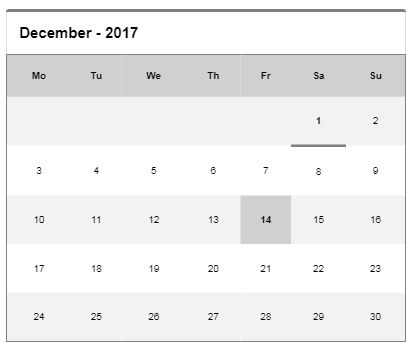
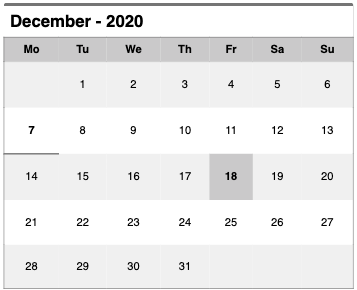
upgrade to ng 11 andf with some other info

diff --git a/src/app/app.component.ts b/src/app/app.component.ts
@@ -13,6 +13,6 @@ export class AppComponent {
   
   clickedDate(evt) {
   console.log(evt);
-  console.log(this.calender.currentDate, this.calender.clickedDate, this.calender.currentMonth, this.calender.currentYear);
+  console.log(this.calender.currentDate, this.calender.currentMonth, this.calender.currentYear);
   }
 }

diff --git a/src/app/app.component.html b/src/app/app.component.html
@@ -1,2 +1,4 @@
 <!--The content below is only a placeholder and can be replaced.-->
+<div>
 <ngx-calender (clickedDate) ="clickedDate($event)" #calender></ngx-calender>
+</div>

diff --git a/src/app/app.component.css b/src/app/app.component.css
@@ -1,0 +1,3 @@
+div{
+    width: 300px;
+}

diff --git a/projects/ngx-calender/README.md b/projects/ngx-calender/README.md
@@ -1,16 +1,18 @@
 # Angular based plug and play calender component
 
+[![npm version](https://badge.fury.io/js/ngx-calender.svg)](https://badge.fury.io/js/ngx-calender)
+
 ## Screenshot
 
-<div style="text-align:center"><img src ="https://github.com/ritsrivastava01/ngxCalender/raw/master/calender.PNG" /></div>
+<div style="text-align:center"><img src ="https://github.com/ritsrivastava01/ngxCalender/raw/master/calender.png" /></div>
 
 ## Installation
 npm install ngx-calender --save
 
 ## Usage
 ###Import the calendar Module
-```
-  
+
+```html
  import { NgxCalenderModule } from 'ngxCalender';
   // other imports 
   
@@ -25,18 +27,18 @@ npm install ngx-calender --save
 
 ```
 ##Add selector in template file my-component.html
-```
-  
-<ngx-calender (clickedDate)="clickHandler()" ></ngx-calender>
+
+```html
+  <ng-calender (clickedDate)="clickHandler()" ></ng-calender>
   Where
   
   clickHandler: clicked handler on date and it return the clicked date as Date like:
-  eg: Wed Aug 01 2018 00:00:00 GMT+0200 (Central European Summer Time)
+  eg: Wed Dec 18 2020 00:00:00 GMT+0200 (Central European Summer Time)
 
 ```
 ### Access the variable from calender component
-```
 
+```
   Access it like:
    @ViewChild('calender') private calender: NgxCalenderComponent;
   // then you can access some public variables:

diff --git a/README.md b/README.md
@@ -2,7 +2,7 @@
 
 ## Screenshot
 
-<div style="text-align:center"><img src ="https://github.com/ritsrivastava01/ngxCalender/raw/master/calender.PNG" /></div>
+<div style="text-align:center"><img src ="https://github.com/ritsrivastava01/ngxCalender/raw/master/calender.png" /></div>
 
 ## Installation
 npm install ngx-calender --save
@@ -31,7 +31,7 @@ npm install ngx-calender --save
   Where
   
   clickHandler: clicked handler on date and it return the clicked date as Date like:
-  eg: Wed Aug 01 2018 00:00:00 GMT+0200 (Central European Summer Time)
+  eg: Wed Dec 18 2020 00:00:00 GMT+0200 (Central European Summer Time)
 
 ```
 ### Access the variable from calender component
